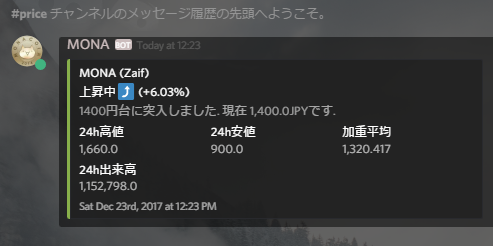
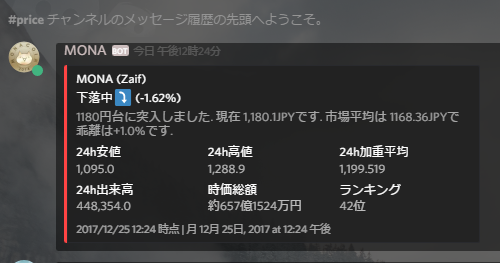
Add 時価総額

Changed region(s): [[0.0, 0.1423, 1.0, 1.0], [0.0, 0.0285, 0.6694, 0.1138], [0.6694, 0.5122, 0.8215, 0.8252]]

diff --git a/zaifbot/bot.py b/zaifbot/bot.py
@@ -3,7 +3,7 @@ import asyncio
 import time
 from datetime import datetime
 from threading import Thread
-from typing import Dict, Optional
+from typing import Dict, Optional, Union
 
 import discord
 import requests
@@ -48,8 +48,17 @@ class ZaifBot:
                 Utils.printError(f"CoinMarketCapのティッカーの取得に失敗しました: {self.config.currencyPair}")
 
     @staticmethod
-    def formatComma(x) -> str:
+    def formatComma(x: Union[int, float]) -> str:
         return "{:,}".format(x)
+
+    @staticmethod
+    def formatJPY(x: float) -> str:
+        x = round(x)
+        manUnit, okuUnit = int(1e4), int(1e8)
+        oku = x // okuUnit
+        x -= okuUnit * oku
+        man = x // manUnit
+        return f"約{oku}億{man}万円"
 
     async def sendMessage(self, phase: int, up: bool, price: float):
         key: str = f"{'u' if up else 'd'}_{phase}"
@@ -85,6 +94,9 @@ class ZaifBot:
                 name=f"{self.config.name} (Zaif)",
                 url=self.config.url
         )
+        embedObject.set_footer(
+                text=datetime.now().strftime("%Y/%m/%d %H:%M") + " 時点"
+        )
         embedObject.add_field(name="24h安値", value=self.formatComma(ticker["low"]))
         embedObject.add_field(name="24h高値", value=self.formatComma(ticker["high"]))
         embedObject.add_field(name="24h加重平均", value=self.formatComma(ticker["vwap"]))
@@ -92,8 +104,9 @@ class ZaifBot:
         if coinmarketcapTicker:
             percent = round((price / float(coinmarketcapTicker["price_jpy"]) - 1) * 100, 2)
             embedObject.description += f" 市場平均は {round(float(coinmarketcapTicker['price_jpy']), 2)}JPYで 乖離は{'+' if percent > 0 else ''}{percent}%です."
-            embedObject.add_field(name="時価総額", value=self.formatComma(float(coinmarketcapTicker["market_cap_jpy"])))
-            embedObject.add_field(name="時価総額ランキング", value=coinmarketcapTicker["rank"] + "位")
+            if coinmarketcapTicker["market_cap_jpy"]:
+                embedObject.add_field(name="時価総額", value=self.formatJPY(float(coinmarketcapTicker["market_cap_jpy"])))
+            embedObject.add_field(name="ランキング", value=coinmarketcapTicker["rank"] + "位")
 
         for channel in self.textChannels.values():
             await self.client.purge_from(channel, check=lambda x: x.author == self.client.user)
